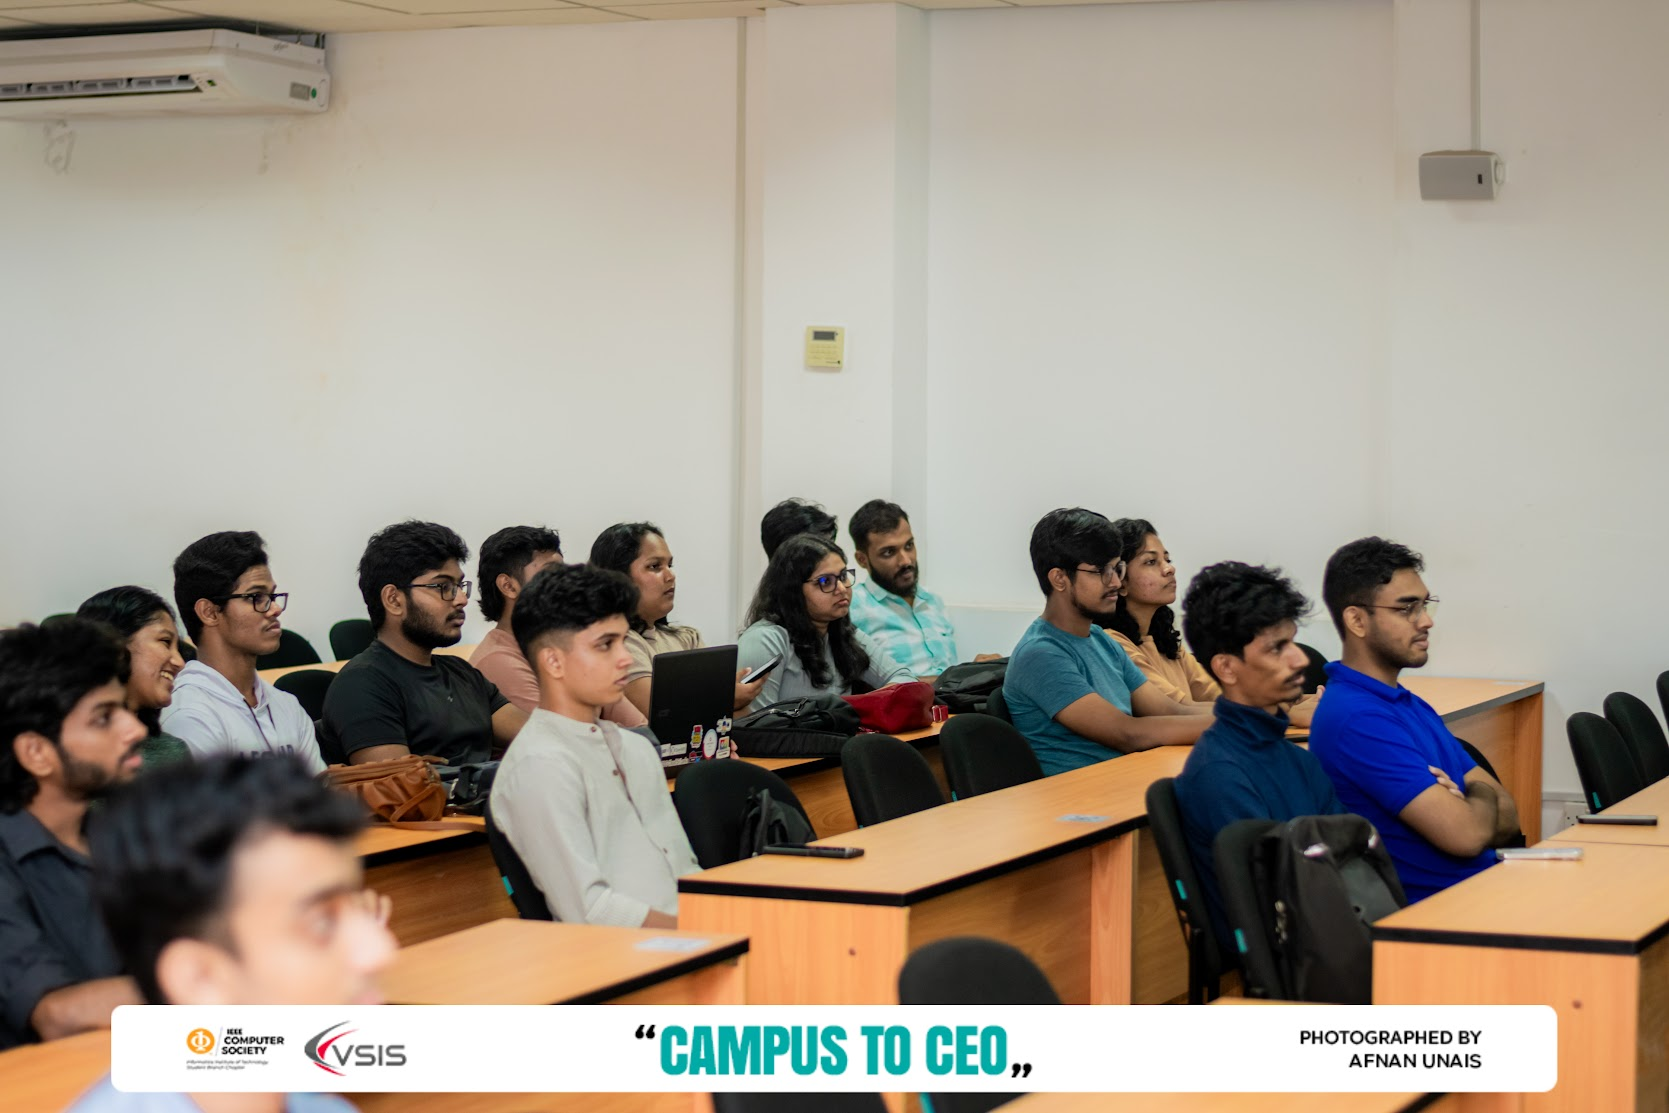
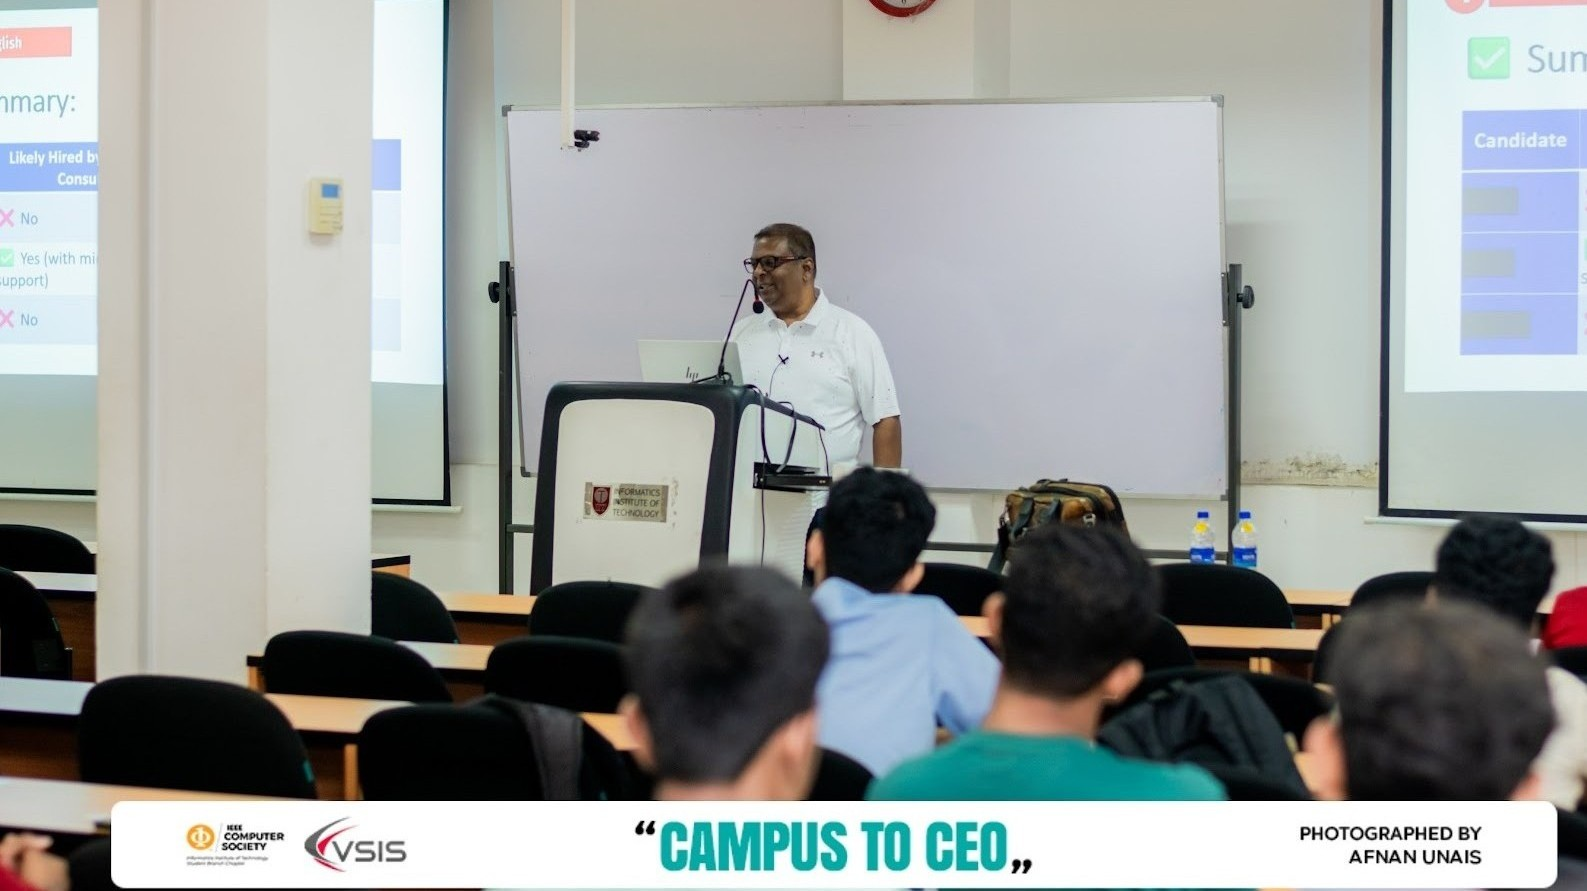
fixed the of campus to ceo

diff --git a/CampusToCeo.html b/CampusToCeo.html
@@ -63,12 +63,12 @@
                 </div>
 
                 <div class="single-work-right">
-                    <img src="images\commit.dev\campustoceo-1.jpg" alt="" class="single-main-work-img" />
-                    <img src="images\commit.dev\campustoceo-2.jpg" alt="" class="single-main-work-img" />
-                    <img src="images\commit.dev\campustoceo-3.jpg" alt="" class="single-main-work-img" />
-                    <img src="images\commit.dev\campustoceo-4.jpg" alt="" class="single-main-work-img" />
-                    <img src="images\commit.dev\campustoceo-5.jpg" alt="" class="single-main-work-img" />
-                    <img src="images\commit.dev\campustoceo-6.jpg" alt="" class="single-main-work-img" />
+                    <img src="images\campustoceo\campustoceo-1.JPG" alt="" class="single-main-work-img" />
+                    <img src="images\campustoceo\campustoceo-2.JPG" alt="" class="single-main-work-img" />
+                    <img src="images\campustoceo\campustoceo-7.JPG" alt="" class="single-main-work-img" />
+                    <img src="images\campustoceo\campustoceo-4.JPG" alt="" class="single-main-work-img" />
+                    <img src="images\campustoceo\campustoceo-5.JPG" alt="" class="single-main-work-img" />
+                    <img src="images\campustoceo\campustoceo-6.JPG" alt="" class="single-main-work-img" />
                 </div>
             </div>
         </div>

diff --git a/events-section.html b/events-section.html
@@ -44,7 +44,7 @@
             href="CampusToCeo.html"
             class="work-item w-inline-block"
         >
-            <div class="work-img-wrapp"><img src="images\commit.dev\commitdev-2.jpg" alt="Commit.dev" class="work-img" /></div>
+            <div class="work-img-wrapp"><img src="images\campustoceo\campustoceo-1.JPG" alt="Commit.dev" class="work-img" /></div>
             <h4 class="heading">Campus to CEO</h4>
             <div class="work-category">Career Guidance</div>
         </a>

diff --git a/commitdev.html b/commitdev.html
@@ -91,7 +91,6 @@
                         />
                        
                         
-                        
                     </div>
                 </div>
             </div>
